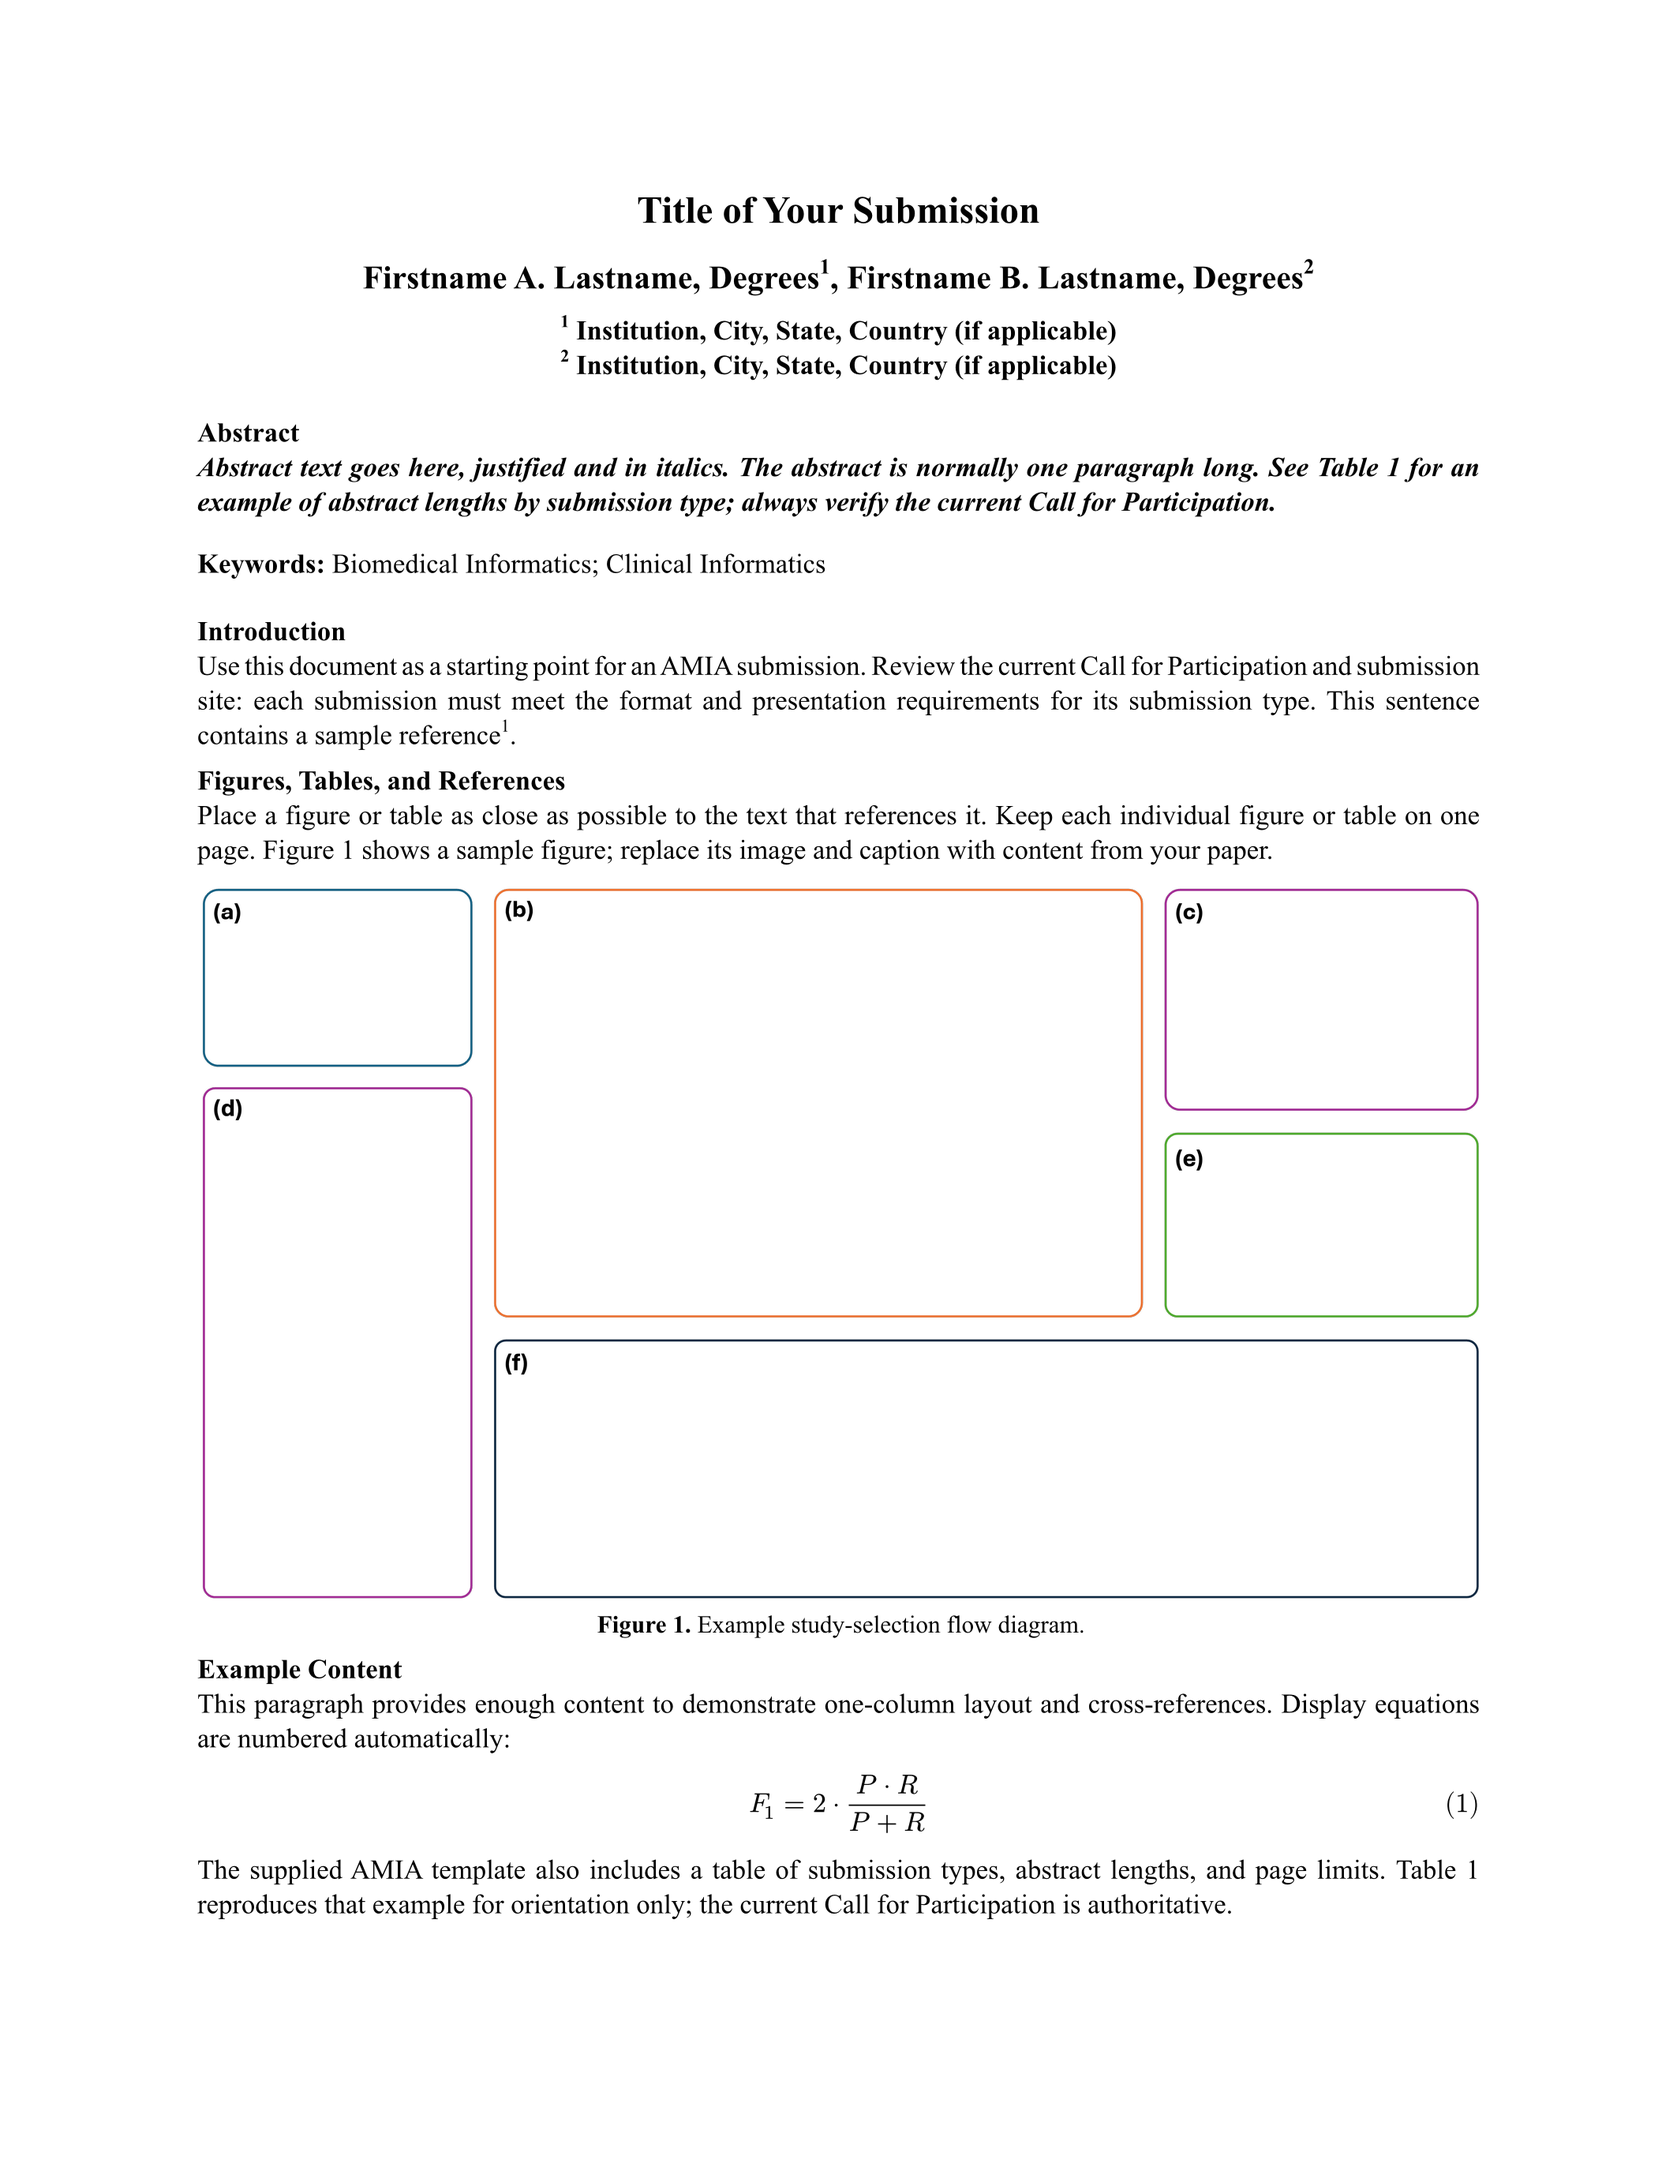
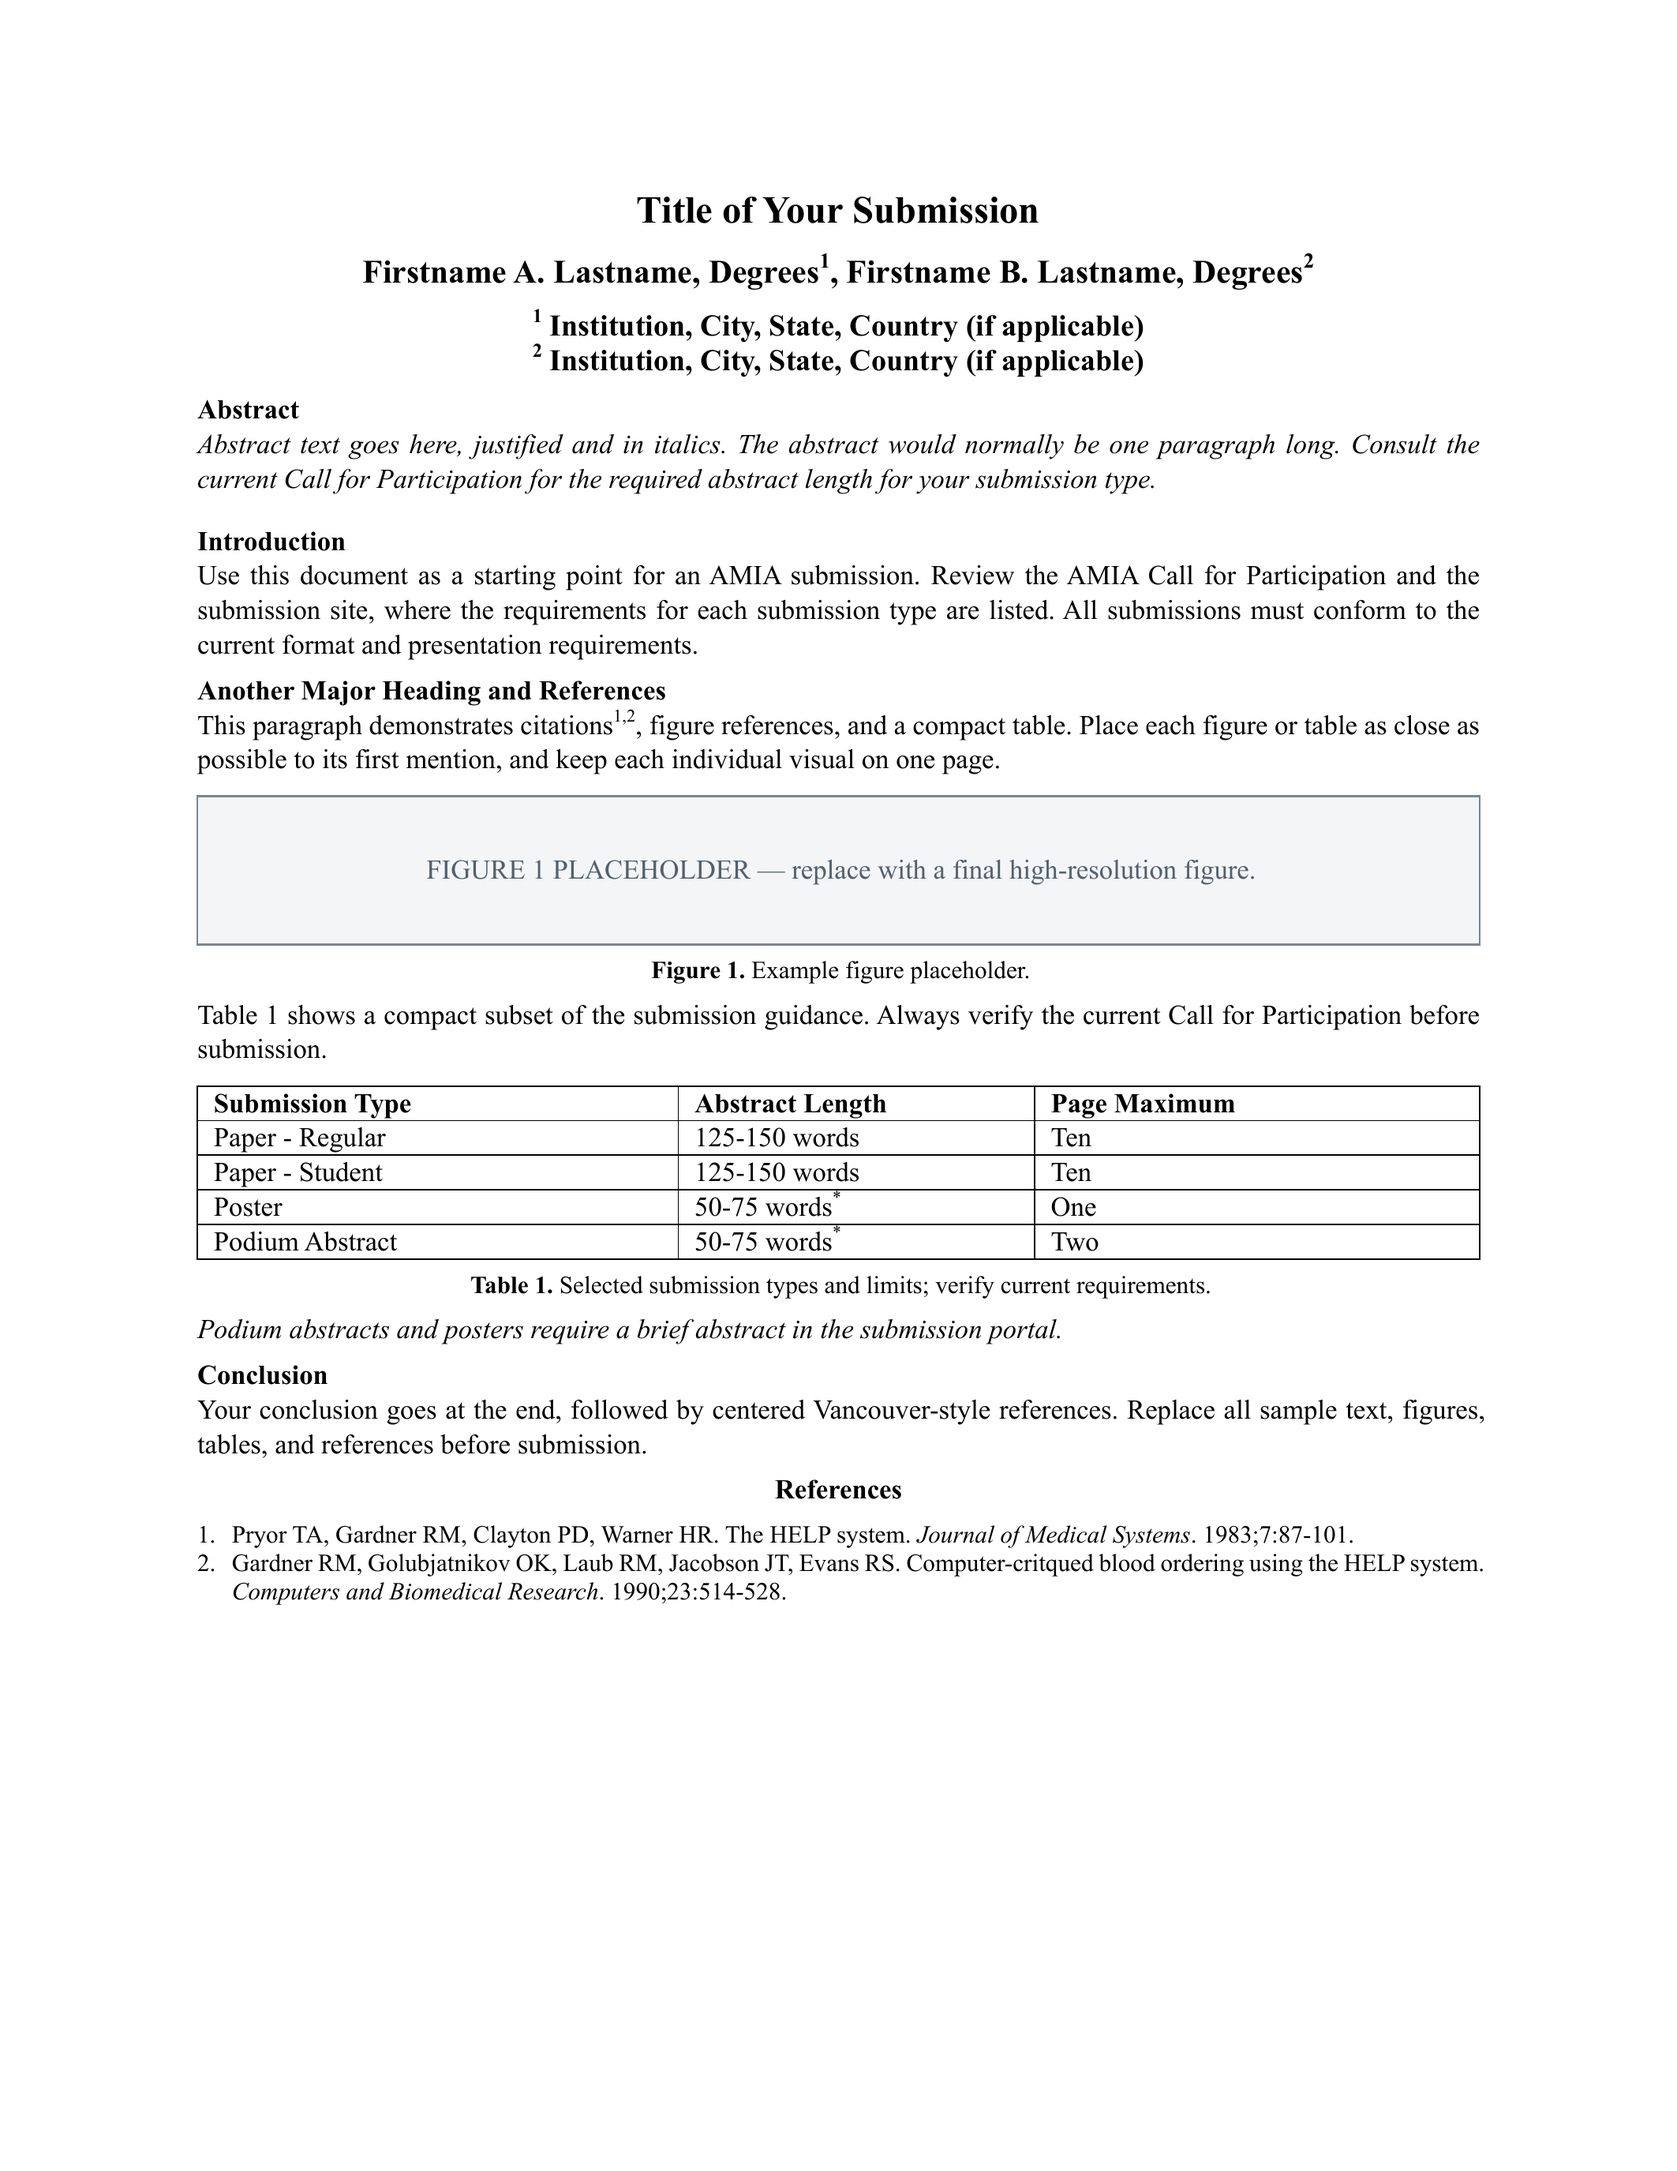
Refine AMIA conference template

diff --git a/packages/preview/amia-conference/0.1.0/README.md b/packages/preview/amia-conference/0.1.0/README.md
@@ -22,9 +22,10 @@ Alternatively, import the package into an existing document:
 #show: amia-symposium.with(
   title: "Your Paper Title",
   authors: (("Author One, Degree", (1,)),),
+  // Optional: break a long author list after these 1-based positions.
+  author-breaks: (),
   affiliations: ("Department, Institution, City, State",),
   abstract: [Your abstract.],
-  keywords: ("Biomedical Informatics",),
   bib: bibliography("refs.bib", style: "american-medical-association"),
 )
 
@@ -32,6 +33,10 @@ Alternatively, import the package into an existing document:
 
 Start writing your paper.
 ```
+
+Set `abstract: none` when the submission system collects the abstract
+separately. For long author lists, use `author-breaks`, for example `(3,)`, to
+start a new line after the third author.
 
 The template uses the system-installed Times New Roman font. Install that font
 locally, or select a compatible substitute if it is unavailable in your Typst
